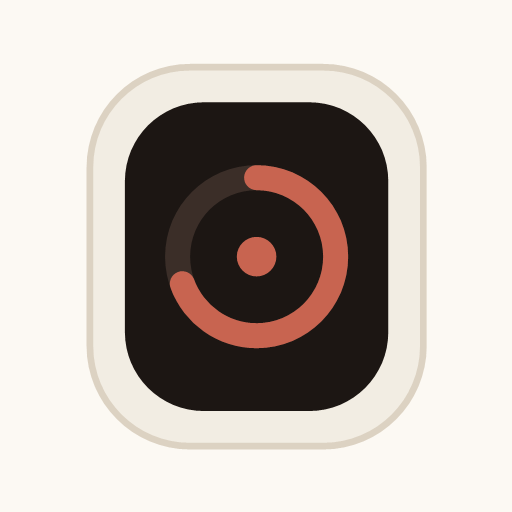
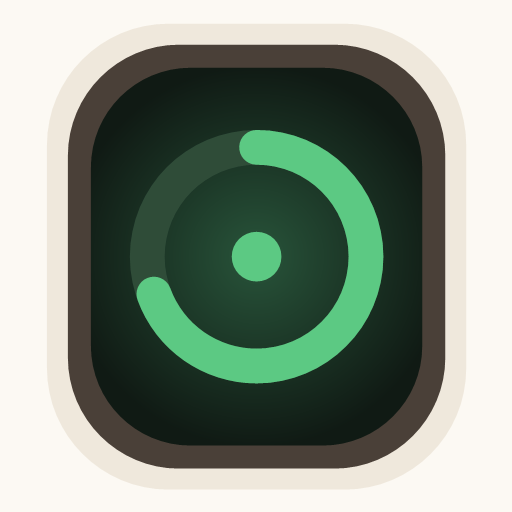
아이콘: 시계를 키우고 화면을 초록으로
작아서 무엇인지 알아보기 어려웠다. 여백을 줄여 시계가 아이콘을 채우게 했다.
화면은 완전한 검정 대신 가운데가 초록으로 은은하게 밝아지게 해서
작은 크기에서도 형태가 읽히게 했다.

캐시부터 보는 파일이라 서비스워커 캐시 번호를 v3로 올린다.

diff --git a/sw.js b/sw.js
@@ -2,7 +2,7 @@
 // 여기서 내보내거나 받아오는 것은 없다.
 // 아이콘처럼 캐시부터 보는 파일을 바꾸면 이 번호를 올려야 한다.
 // 올리지 않으면 이미 설치한 사람은 옛 파일을 계속 쓴다
-const CACHE = 'cbt-diary-v2';
+const CACHE = 'cbt-diary-v3';
 
 const ASSETS = [
   './',
